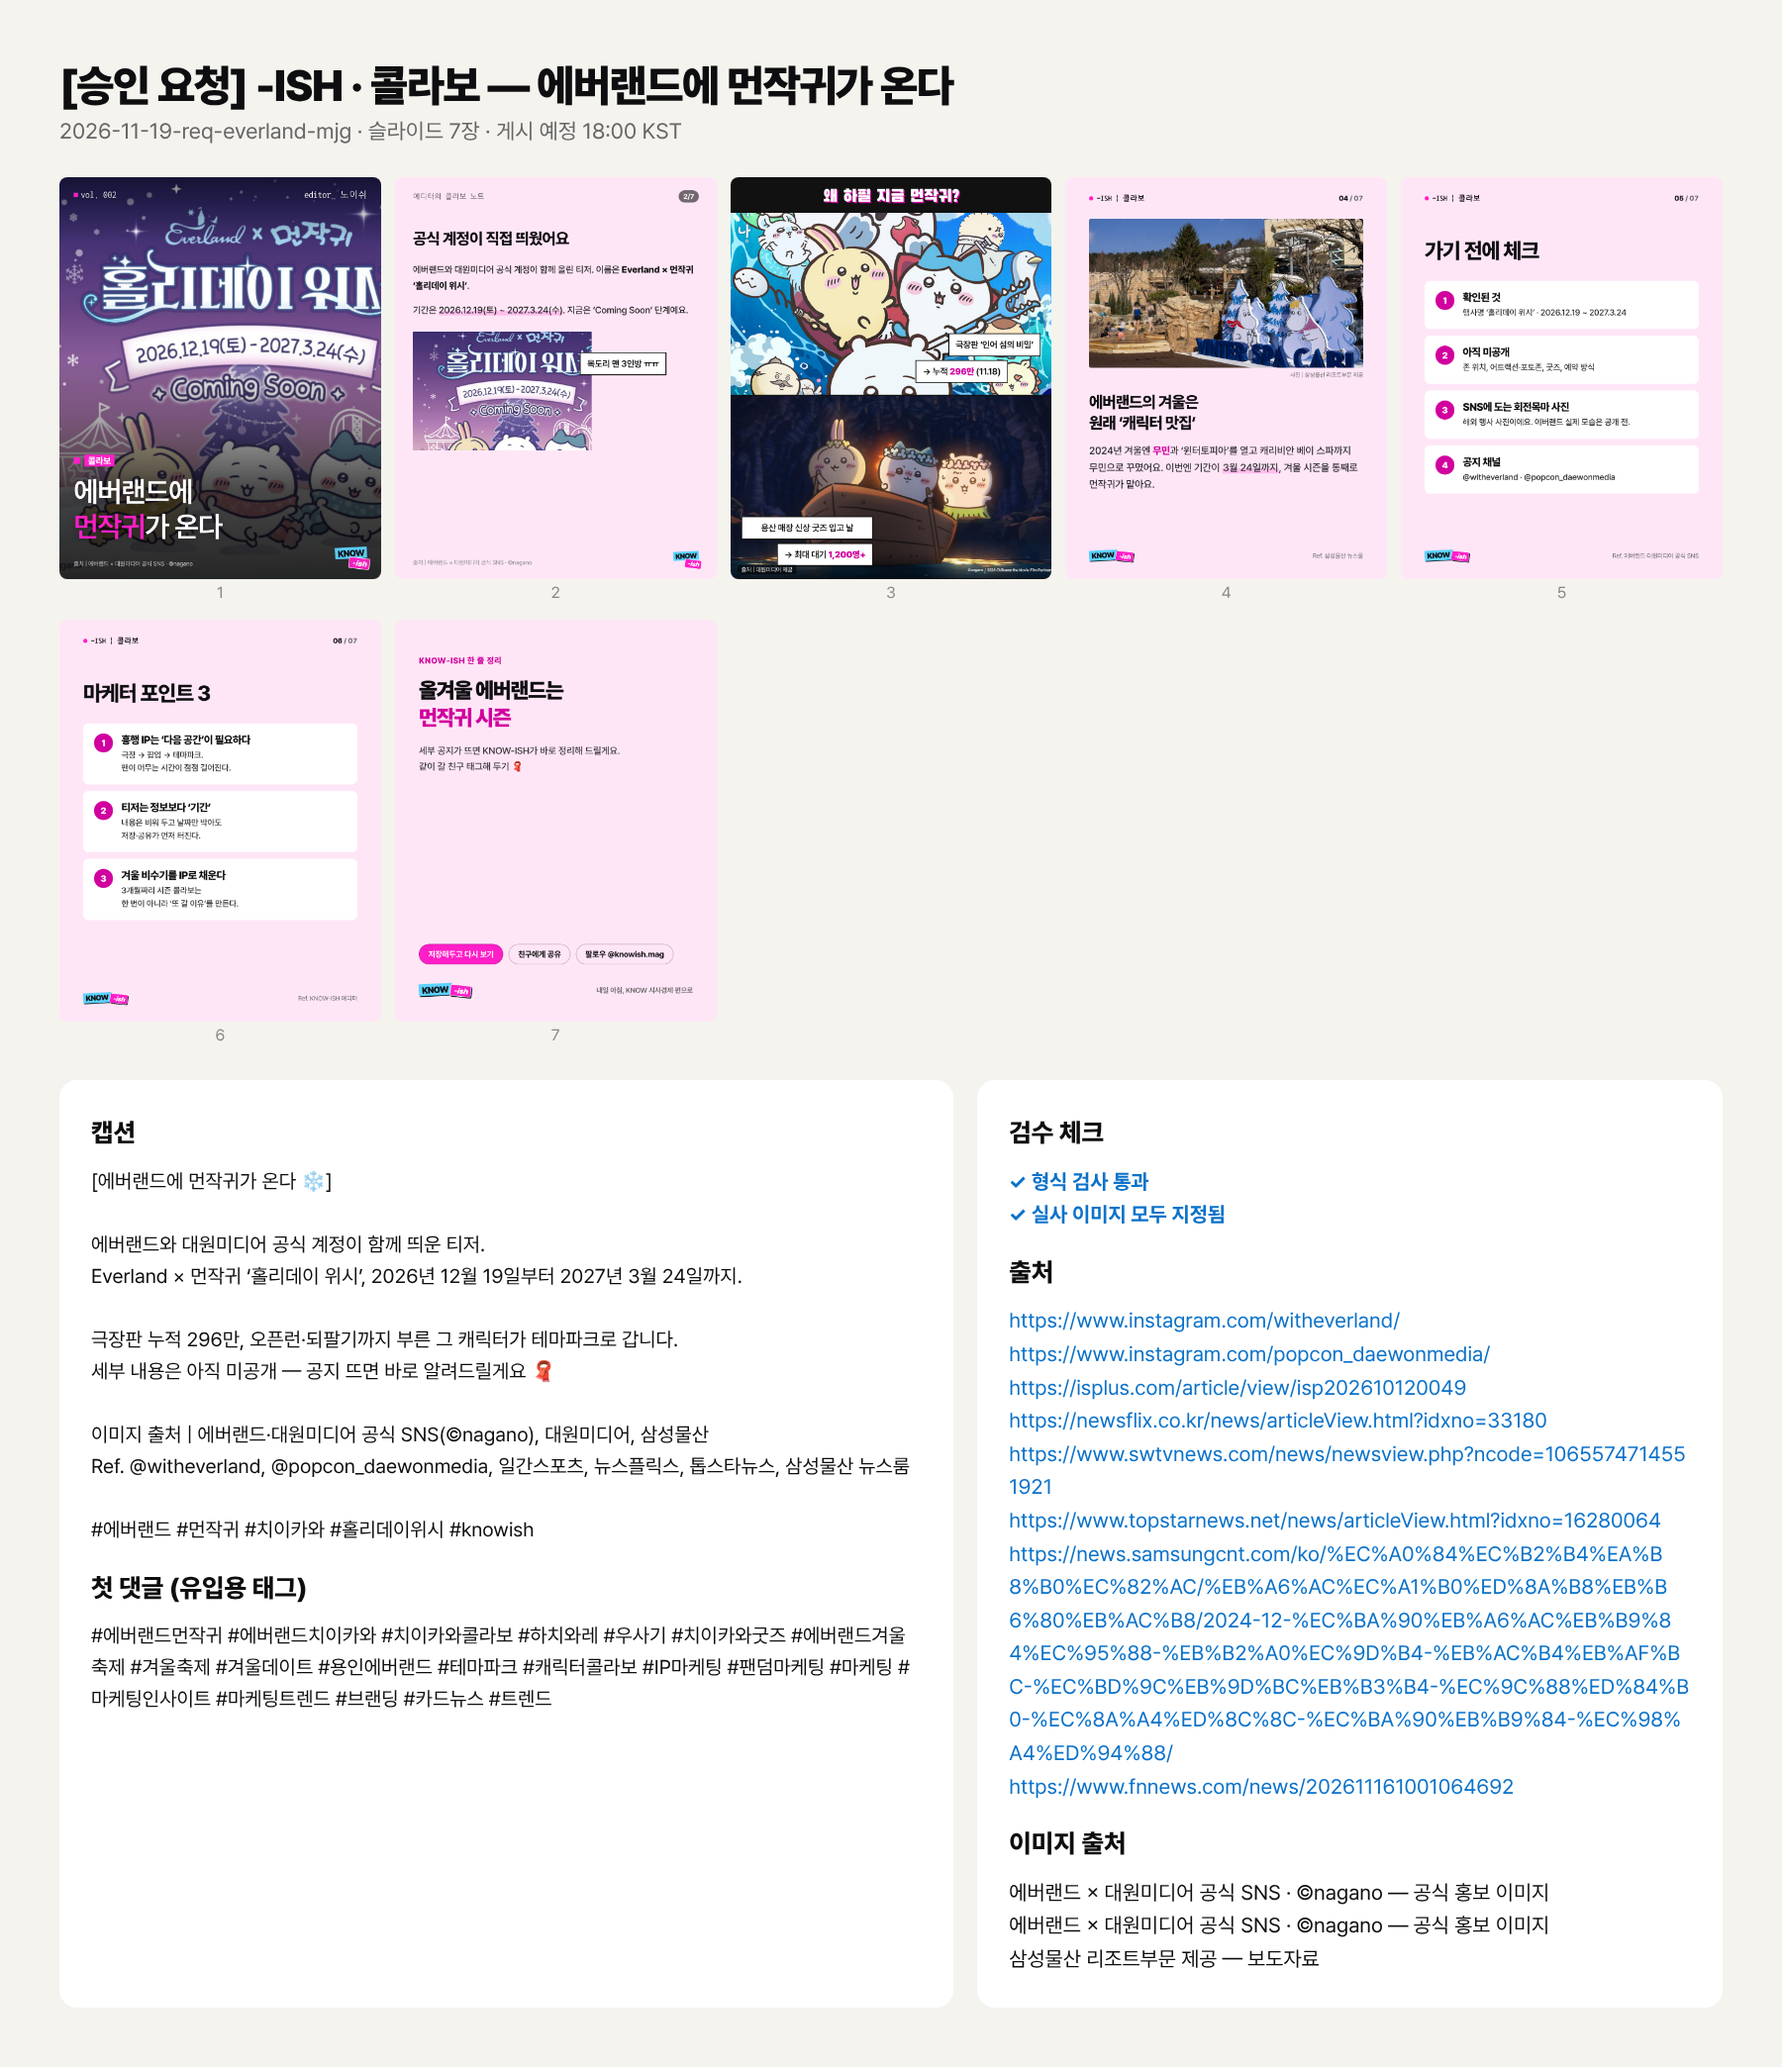
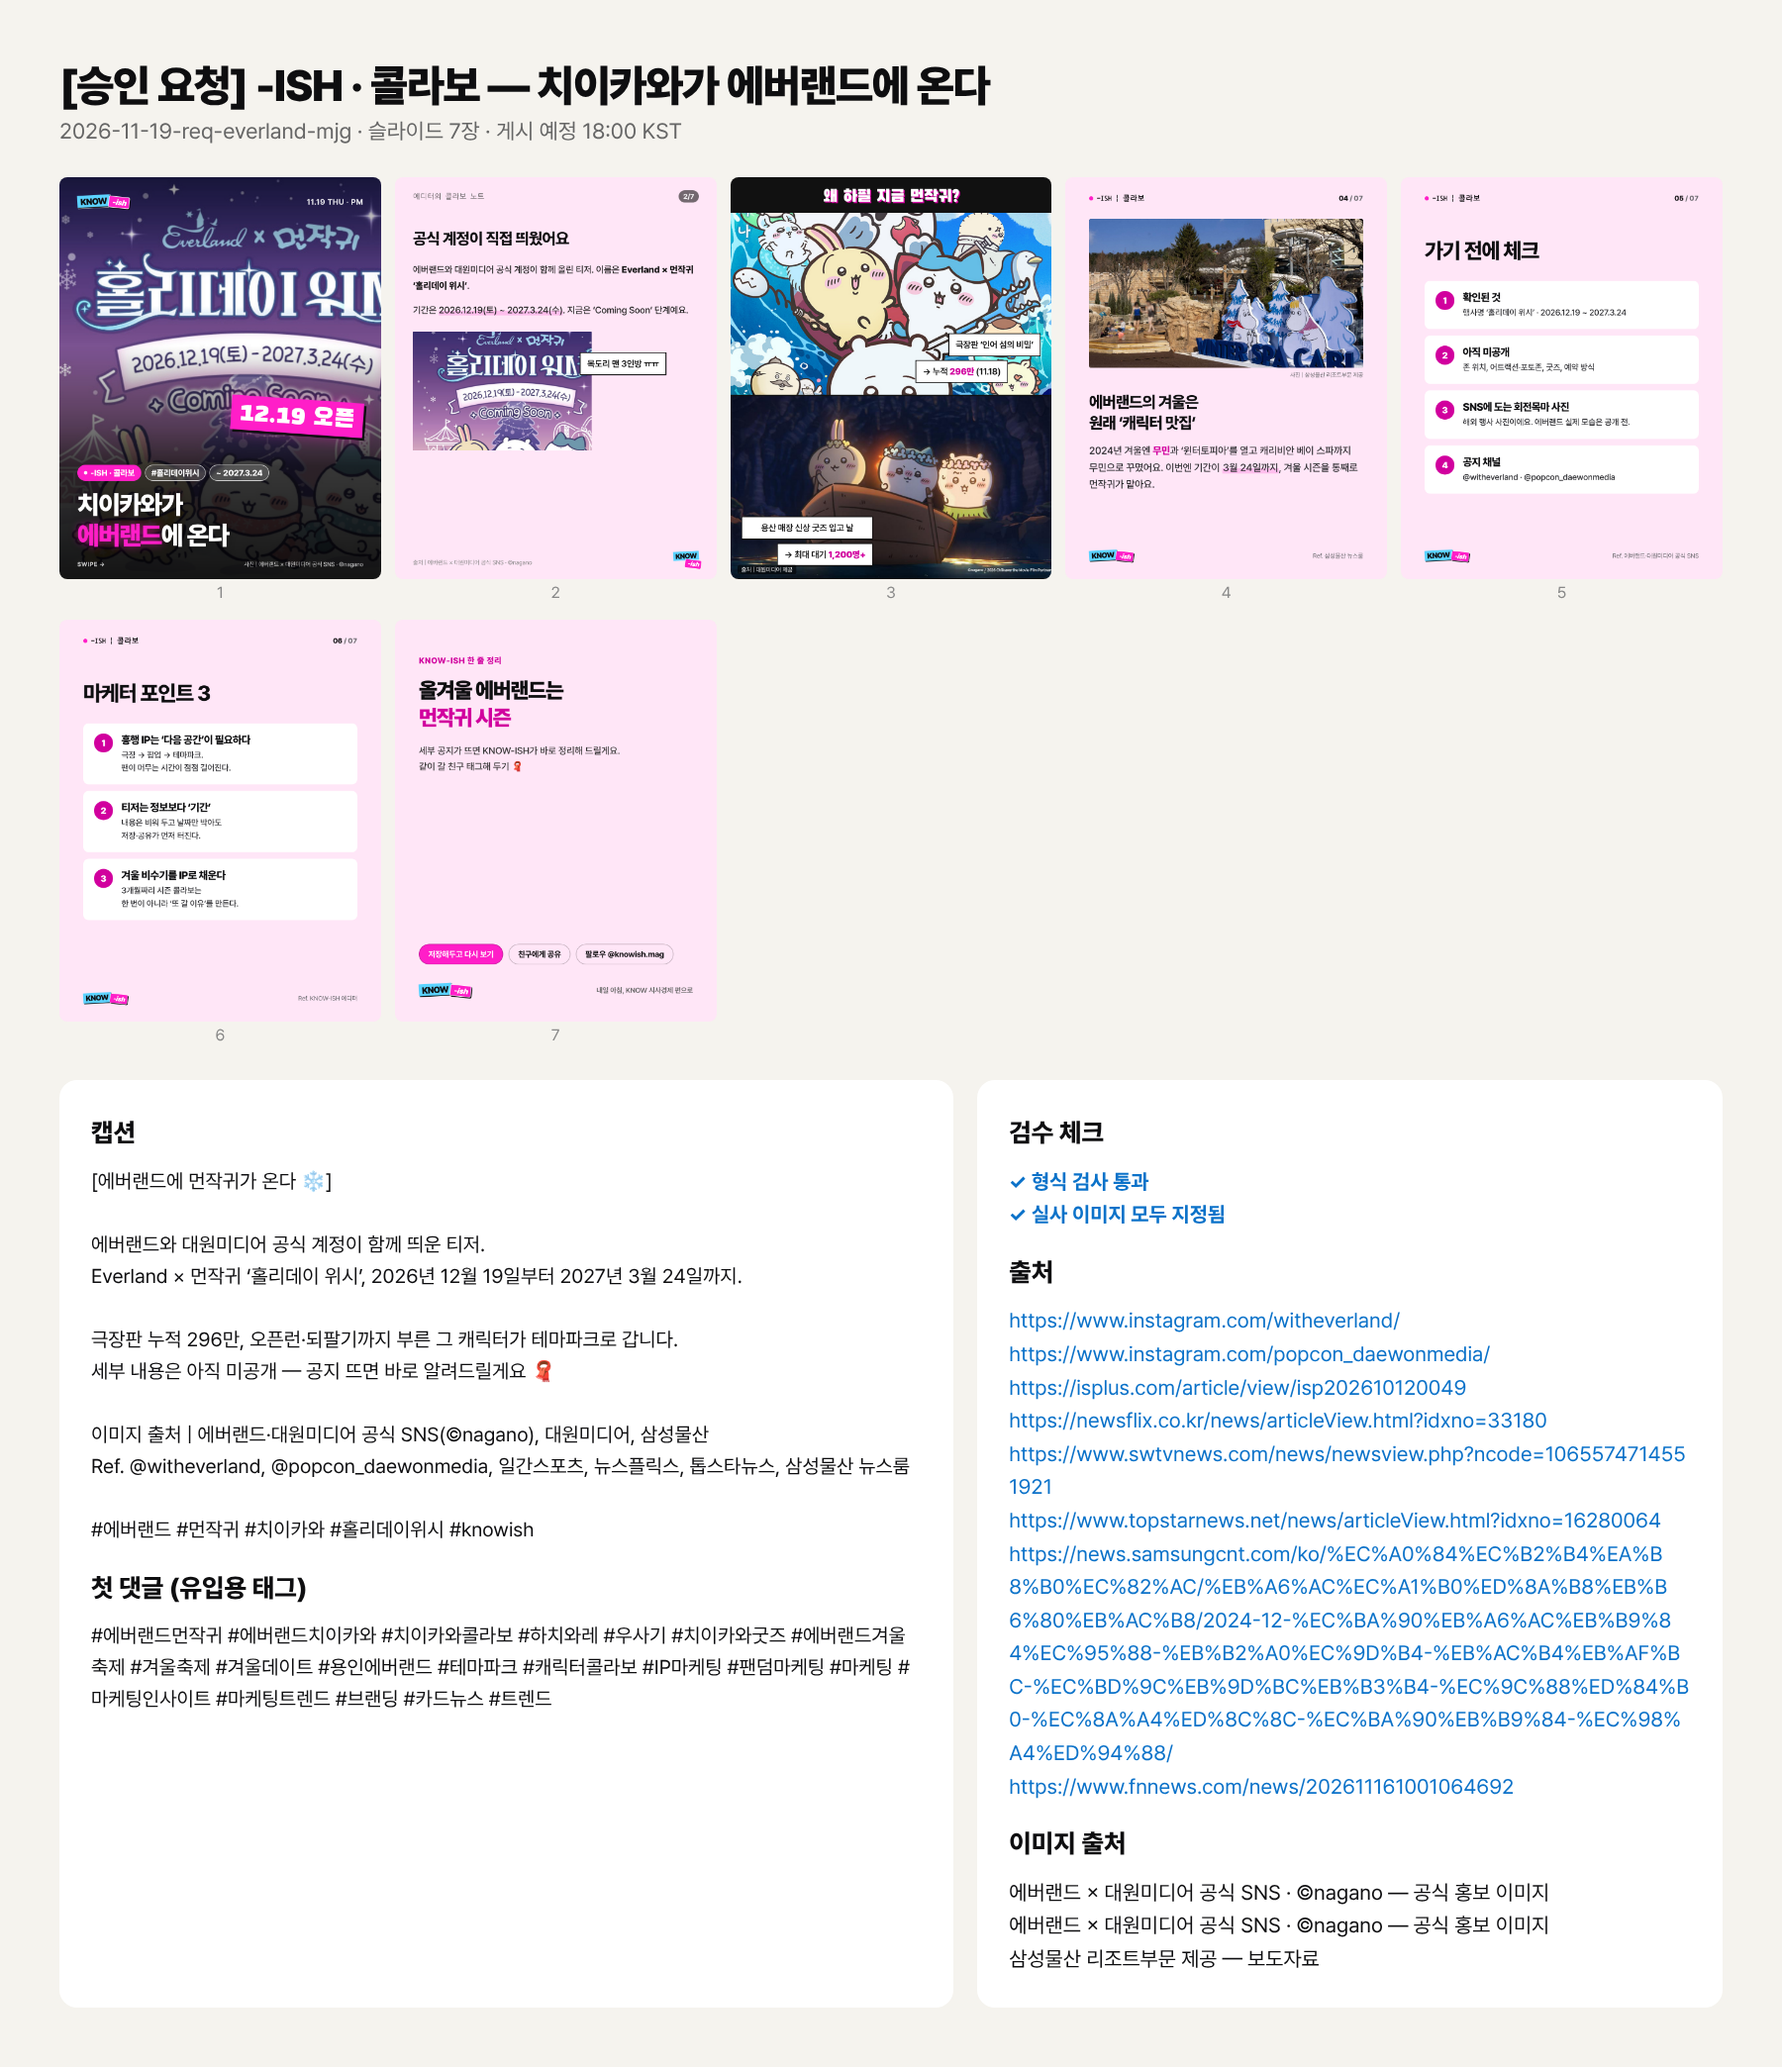
에버랜드×먼작귀: 표지를 2EZ 썸네일로, 표지 태그 칩·스티커 위치 옵션 추가
Claude-Session: https://claude.ai/code/session_019qCDgsVvWMqnLU8yYdmY1G

Changed region(s): [[0.0311, 0.0934, 0.2178, 0.2802], [0.3111, 0.0311, 0.56, 0.0623], [0.2489, 0.1557, 0.3422, 0.2179]]

diff --git a/onoff/AUTOMATION.md b/onoff/AUTOMATION.md
@@ -58,6 +58,7 @@
 - `letter`: `label`(예: "에디터의 팝업 노트"), `title`, `text`(사진 있으면 200자, 없으면 330자), 선택 `image` + `say`(사진 옆 말풍선 한 줄).
 - `meme`: `title`(검은 띠 제목), `panels` 2~3칸 — 각 칸 `image`, `say`(상황), `react`(→ 반응, `==강조==`는 시리즈 진한색), `side`(l/r).
 - meme 사진도 라이선스 규칙 그대로. 출처 불명 밈 짤(핀터레스트 등)은 쓰지 않는다 — 보도자료·공식 이미지·라이선스 스톡·AI 생성 이미지만.
+- mag 게시물에서도 표지만 2EZ 썸네일로 쓰려면 cover 에 `"coverStyle": "classic"` (스티커·굵은 제목). classic 표지 옵션: `tags`(배지 옆 칩, 예 `["#홀리데이위시", "~ 2027.3.24"]`), `stickerTop`(스티커 세로 위치 px, 사진 속 글자 피할 때).
 - 예시: `content/demo/mag-ganadi.json` → `samples/mag-demo/`
 
 ### 말풍선 · 사진 많이 쓰기 (두 스타일 공통)
